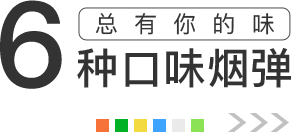
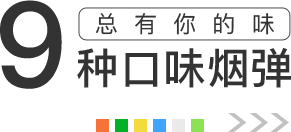
添加3个烟弹

diff --git a/public/index.html b/public/index.html
@@ -137,7 +137,7 @@
 	<div class="taste" id="taste">
 		<div class="wrapper w-1360 ">
 			<div class="taste-title">
-				<img src="images/taste-title.png?v=be968483f4" alt="vladdin,瓦拉丁,电子烟,烟弹">
+				<img src="images/taste-title.png?v=39e1302ca4" alt="vladdin,瓦拉丁,电子烟,烟弹">
 			</div>
 			
 			<ul class="taste-list clearfix">
@@ -169,6 +169,24 @@
 				<li>
 					<a href="https://detail.tmall.com/item.htm?spm=a1z10.5-b-s.w4011-18936551709.44.71e65fd6s6ieyW&id=577596859575&rn=f7cb3bacf2b2f847a6081dee9fa39a50&abbucket=3&sku_properties=1627207:90554" target="_blank" title="瓦拉丁荔枝烟草">
 						<img src="images/taste-06.jpg?v=3079b492c3" alt="vladdin,瓦拉丁,电子烟,烟弹">
+					</a>
+				</li>
+				
+				<li>
+					<a href="https://detail.tmall.com/item.htm?spm=a1z10.5-b-s.w4011-18936551709.44.71e65fd6s6ieyW&id=577596859575&rn=f7cb3bacf2b2f847a6081dee9fa39a50&abbucket=3&sku_properties=1627207:90554" target="_blank" title="瓦拉丁荔枝烟草">
+						<img src="images/taste-07.jpg?v=49558c4c57" alt="vladdin,瓦拉丁,电子烟,烟弹">
+					</a>
+				</li>
+				
+				<li>
+					<a href="https://detail.tmall.com/item.htm?spm=a1z10.5-b-s.w4011-18936551709.44.71e65fd6s6ieyW&id=577596859575&rn=f7cb3bacf2b2f847a6081dee9fa39a50&abbucket=3&sku_properties=1627207:90554" target="_blank" title="瓦拉丁荔枝烟草">
+						<img src="images/taste-08.jpg?v=23d8c8dd79" alt="vladdin,瓦拉丁,电子烟,烟弹">
+					</a>
+				</li>
+				
+				<li>
+					<a href="https://detail.tmall.com/item.htm?spm=a1z10.5-b-s.w4011-18936551709.44.71e65fd6s6ieyW&id=577596859575&rn=f7cb3bacf2b2f847a6081dee9fa39a50&abbucket=3&sku_properties=1627207:90554" target="_blank" title="瓦拉丁荔枝烟草">
+						<img src="images/taste-09.jpg?v=d9f811688b" alt="vladdin,瓦拉丁,电子烟,烟弹">
 					</a>
 				</li>
 			</ul>

diff --git a/src/index.html b/src/index.html
@@ -137,7 +137,7 @@
 	<div class="taste" id="taste">
 		<div class="wrapper w-1360 ">
 			<div class="taste-title">
-				<img src="images/taste-title.png?v=be968483f4" alt="vladdin,瓦拉丁,电子烟,烟弹">
+				<img src="images/taste-title.png?v=39e1302ca4" alt="vladdin,瓦拉丁,电子烟,烟弹">
 			</div>
 			
 			<ul class="taste-list clearfix">
@@ -169,6 +169,24 @@
 				<li>
 					<a href="https://detail.tmall.com/item.htm?spm=a1z10.5-b-s.w4011-18936551709.44.71e65fd6s6ieyW&id=577596859575&rn=f7cb3bacf2b2f847a6081dee9fa39a50&abbucket=3&sku_properties=1627207:90554" target="_blank" title="瓦拉丁荔枝烟草">
 						<img src="images/taste-06.jpg?v=3079b492c3" alt="vladdin,瓦拉丁,电子烟,烟弹">
+					</a>
+				</li>
+				
+				<li>
+					<a href="https://detail.tmall.com/item.htm?spm=a1z10.5-b-s.w4011-18936551709.44.71e65fd6s6ieyW&id=577596859575&rn=f7cb3bacf2b2f847a6081dee9fa39a50&abbucket=3&sku_properties=1627207:90554" target="_blank" title="瓦拉丁荔枝烟草">
+						<img src="images/taste-07.jpg?v=49558c4c57" alt="vladdin,瓦拉丁,电子烟,烟弹">
+					</a>
+				</li>
+				
+				<li>
+					<a href="https://detail.tmall.com/item.htm?spm=a1z10.5-b-s.w4011-18936551709.44.71e65fd6s6ieyW&id=577596859575&rn=f7cb3bacf2b2f847a6081dee9fa39a50&abbucket=3&sku_properties=1627207:90554" target="_blank" title="瓦拉丁荔枝烟草">
+						<img src="images/taste-08.jpg?v=23d8c8dd79" alt="vladdin,瓦拉丁,电子烟,烟弹">
+					</a>
+				</li>
+				
+				<li>
+					<a href="https://detail.tmall.com/item.htm?spm=a1z10.5-b-s.w4011-18936551709.44.71e65fd6s6ieyW&id=577596859575&rn=f7cb3bacf2b2f847a6081dee9fa39a50&abbucket=3&sku_properties=1627207:90554" target="_blank" title="瓦拉丁荔枝烟草">
+						<img src="images/taste-09.jpg?v=d9f811688b" alt="vladdin,瓦拉丁,电子烟,烟弹">
 					</a>
 				</li>
 			</ul>
